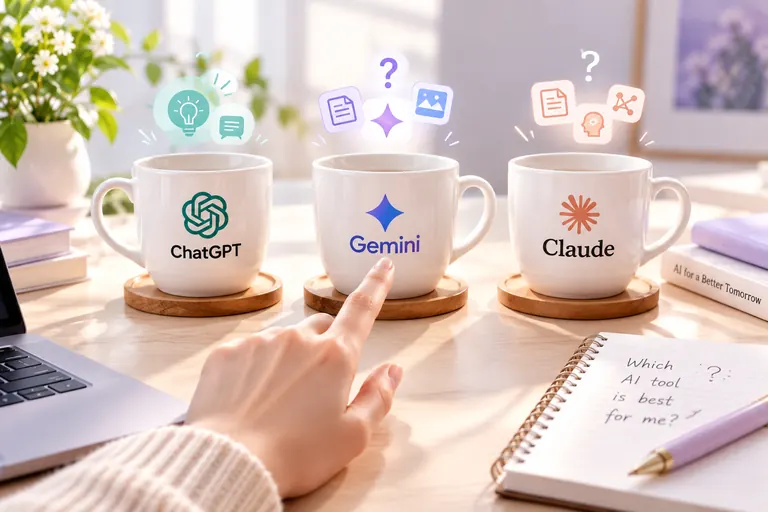
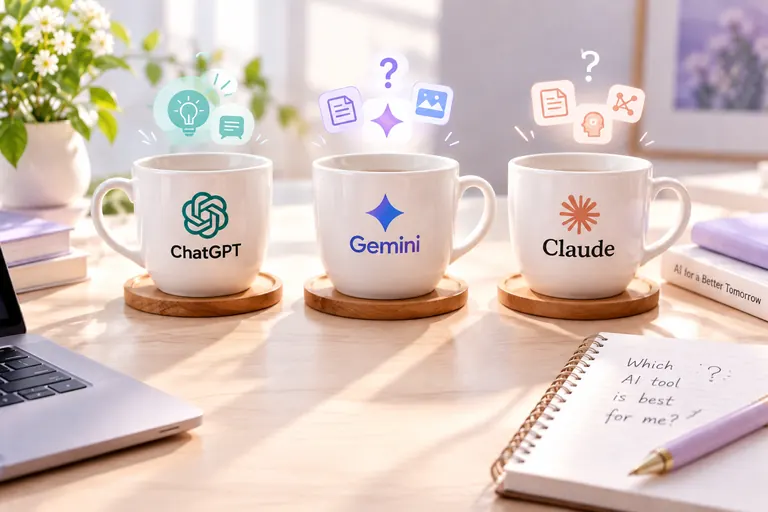
AI 비교 노트 대표 이미지 교체(손 없는 버전) [skip netlify]
Claude-Session: https://claude.ai/code/session_01GRqzcaFXEEn8tW1UbVE2Th

Changed region(s): [[0.0, 0.4688, 0.5625, 1.0]]

diff --git a/index.html b/index.html
@@ -664,7 +664,7 @@ a.note:hover{transform:translateY(-2px);border-color:var(--violet)}
 const CATS = ["AI 뉴스 브리핑","AI 활용 노하우","AI 음악 만들기","뷰티 × AI","반주 · 피아노 × AI","AI 시대의 창작과 교육"];
 const NOTES = [
   {cat:"AI 뉴스 브리핑", title:"이번 주 AI 소식 5가지", desc:"2026년 10월 셋째 주, 챗GPT·제미나이·클로드 소식과 화제의 이슈를 공식 발표 기준으로 정리합니다.", date:"2026.10.21", url:"notes/ai-news-2026-10-3.html", img:"img/note-ai-news-2026-10-3-768.webp", alt:"아침 책상에서 스마트폰으로 이번 주 AI 뉴스를 보는 손"},
-  {cat:"AI 활용 노하우", title:"챗GPT·제미나이·클로드, 무엇을 쓸까", desc:"무료로 쓸 수 있는 범위와 용도별 강점을 비교해 내게 맞는 AI를 고르는 법.", date:"2026.10.21", url:"notes/chatgpt-gemini-claude.html", img:"img/note-chatgpt-gemini-claude-768.webp", alt:"ChatGPT, Gemini, Claude 로고가 그려진 흰 머그잔 세 개와 고르는 손"},
+  {cat:"AI 활용 노하우", title:"챗GPT·제미나이·클로드, 무엇을 쓸까", desc:"무료로 쓸 수 있는 범위와 용도별 강점을 비교해 내게 맞는 AI를 고르는 법.", date:"2026.10.21", url:"notes/chatgpt-gemini-claude.html", img:"img/note-chatgpt-gemini-claude-768.webp", alt:"ChatGPT, Gemini, Claude 로고가 그려진 흰 머그잔 세 개"},
   {cat:"AI 음악 만들기", title:"수노(Suno) AI로 작사부터 시작하는 법", desc:"멜로디보다 가사를 먼저 잡고, AI와 대화하며 곡의 뼈대를 세우는 순서를 정리합니다.", date:"2026.10.21", url:"notes/suno-lyrics.html", img:"img/note-suno-lyrics-768.webp", alt:"손글씨 가사 노트와 수노 v6 화면이 뜬 노트북이 놓인 라벤더빛 책상"},
   {cat:"뷰티 × AI", title:"퍼스널컬러 진단, 받기 전에 알아 둘 것과 AI 활용법", desc:"기본 원리와 진단 전 준비, 주의사항, AI 진단을 정확하게 쓰는 법까지 정리합니다.", date:"2026.10.21", url:"notes/personal-color.html", img:"img/note-personal-color-768.webp", alt:"어깨에 색 진단 천을 대 보는 퍼스널컬러 드레이핑 장면"},
   {cat:"반주 · 피아노 × AI", title:"찬양 반주 코드 진행, 초보가 먼저 익힐 5가지", desc:"찬양과 대중음악에 널리 쓰이는 진행을 원리부터 차근차근, 연습에 쓸 AI 도구까지.", date:"2026.10.21", url:"notes/worship-chord-progressions.html", img:"img/note-worship-chord-progressions-768.webp", alt:"디지털 피아노 건반 위의 두 손과 찬양 반주 연습 책"},

diff --git a/notes/chatgpt-gemini-claude.html b/notes/chatgpt-gemini-claude.html
@@ -126,8 +126,8 @@ footer{padding-block:48px;display:flex;justify-content:space-between;gap:12px;fl
 </header>
 
 <figure class="hero">
-  <img src="../img/note-chatgpt-gemini-claude.webp" srcset="../img/note-chatgpt-gemini-claude-768.webp 768w, ../img/note-chatgpt-gemini-claude.webp 1536w" sizes="(max-width:760px) 100vw, 760px" width="1536" height="1024" fetchpriority="high" alt="밝은 나무 책상 위에 흰 머그잔 세 개가 나란히 놓여 있다. 왼쪽부터 ChatGPT, Gemini, Claude 로고가 그려져 있고, 잔 위로 전구·문서·이미지 같은 기능 아이콘과 물음표가 떠 있다. 한 손이 잔들을 가리키며 고르고 있고, 오른쪽 노트에는 'Which AI tool is best for me?'라고 적혀 있다. 세 AI 중 무엇을 쓸지 고민하는 장면.">
-  <figcaption>AI 생성 이미지입니다. 로고는 각 서비스를 구분하기 위한 표시이며, 손가락의 위치는 추천 순서와 관계가 없습니다.</figcaption>
+  <img src="../img/note-chatgpt-gemini-claude.webp" srcset="../img/note-chatgpt-gemini-claude-768.webp 768w, ../img/note-chatgpt-gemini-claude.webp 1536w" sizes="(max-width:760px) 100vw, 760px" width="1536" height="1024" fetchpriority="high" alt="밝은 나무 책상 위에 흰 머그잔 세 개가 나무 받침 위에 나란히 놓여 있다. 왼쪽부터 ChatGPT, Gemini, Claude 로고가 그려져 있고, 잔마다 위로 전구·말풍선, 문서·이미지, 문서·연결망 같은 기능 아이콘과 물음표가 떠 있다. 앞쪽에는 노트북이, 오른쪽에는 'Which AI tool is best for me?'라고 적힌 스프링 노트와 연보라 펜이 놓여 있다. 세 AI 중 무엇을 쓸지 고민하는 장면.">
+  <figcaption>AI 생성 이미지입니다. 로고는 각 서비스를 구분하기 위한 표시이며, 놓인 순서는 추천 순서와 관계가 없습니다.</figcaption>
 </figure>
 
 <article>
